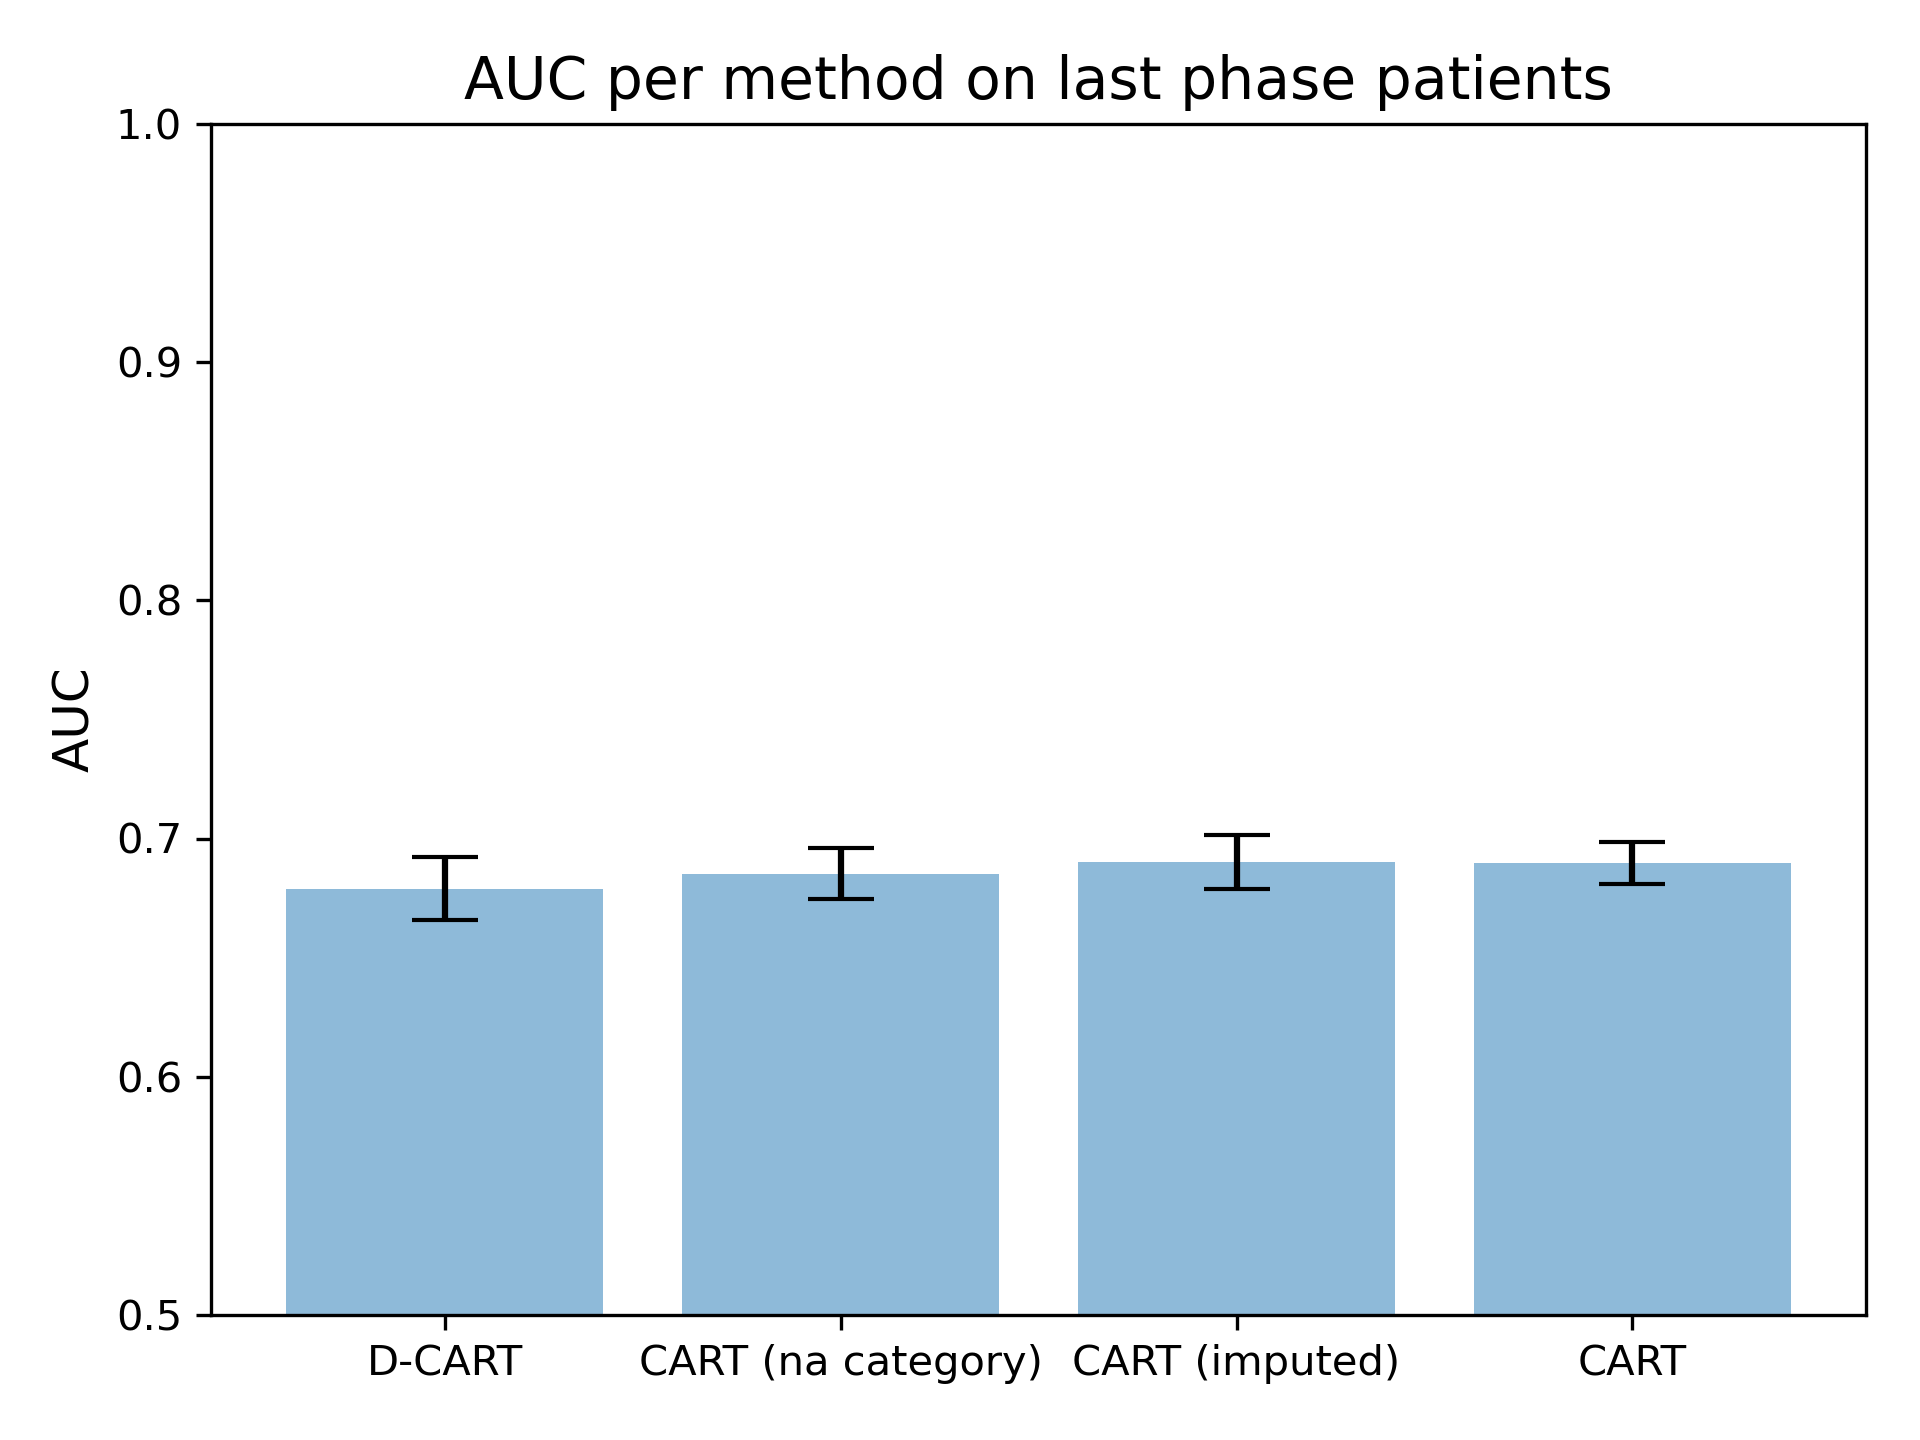
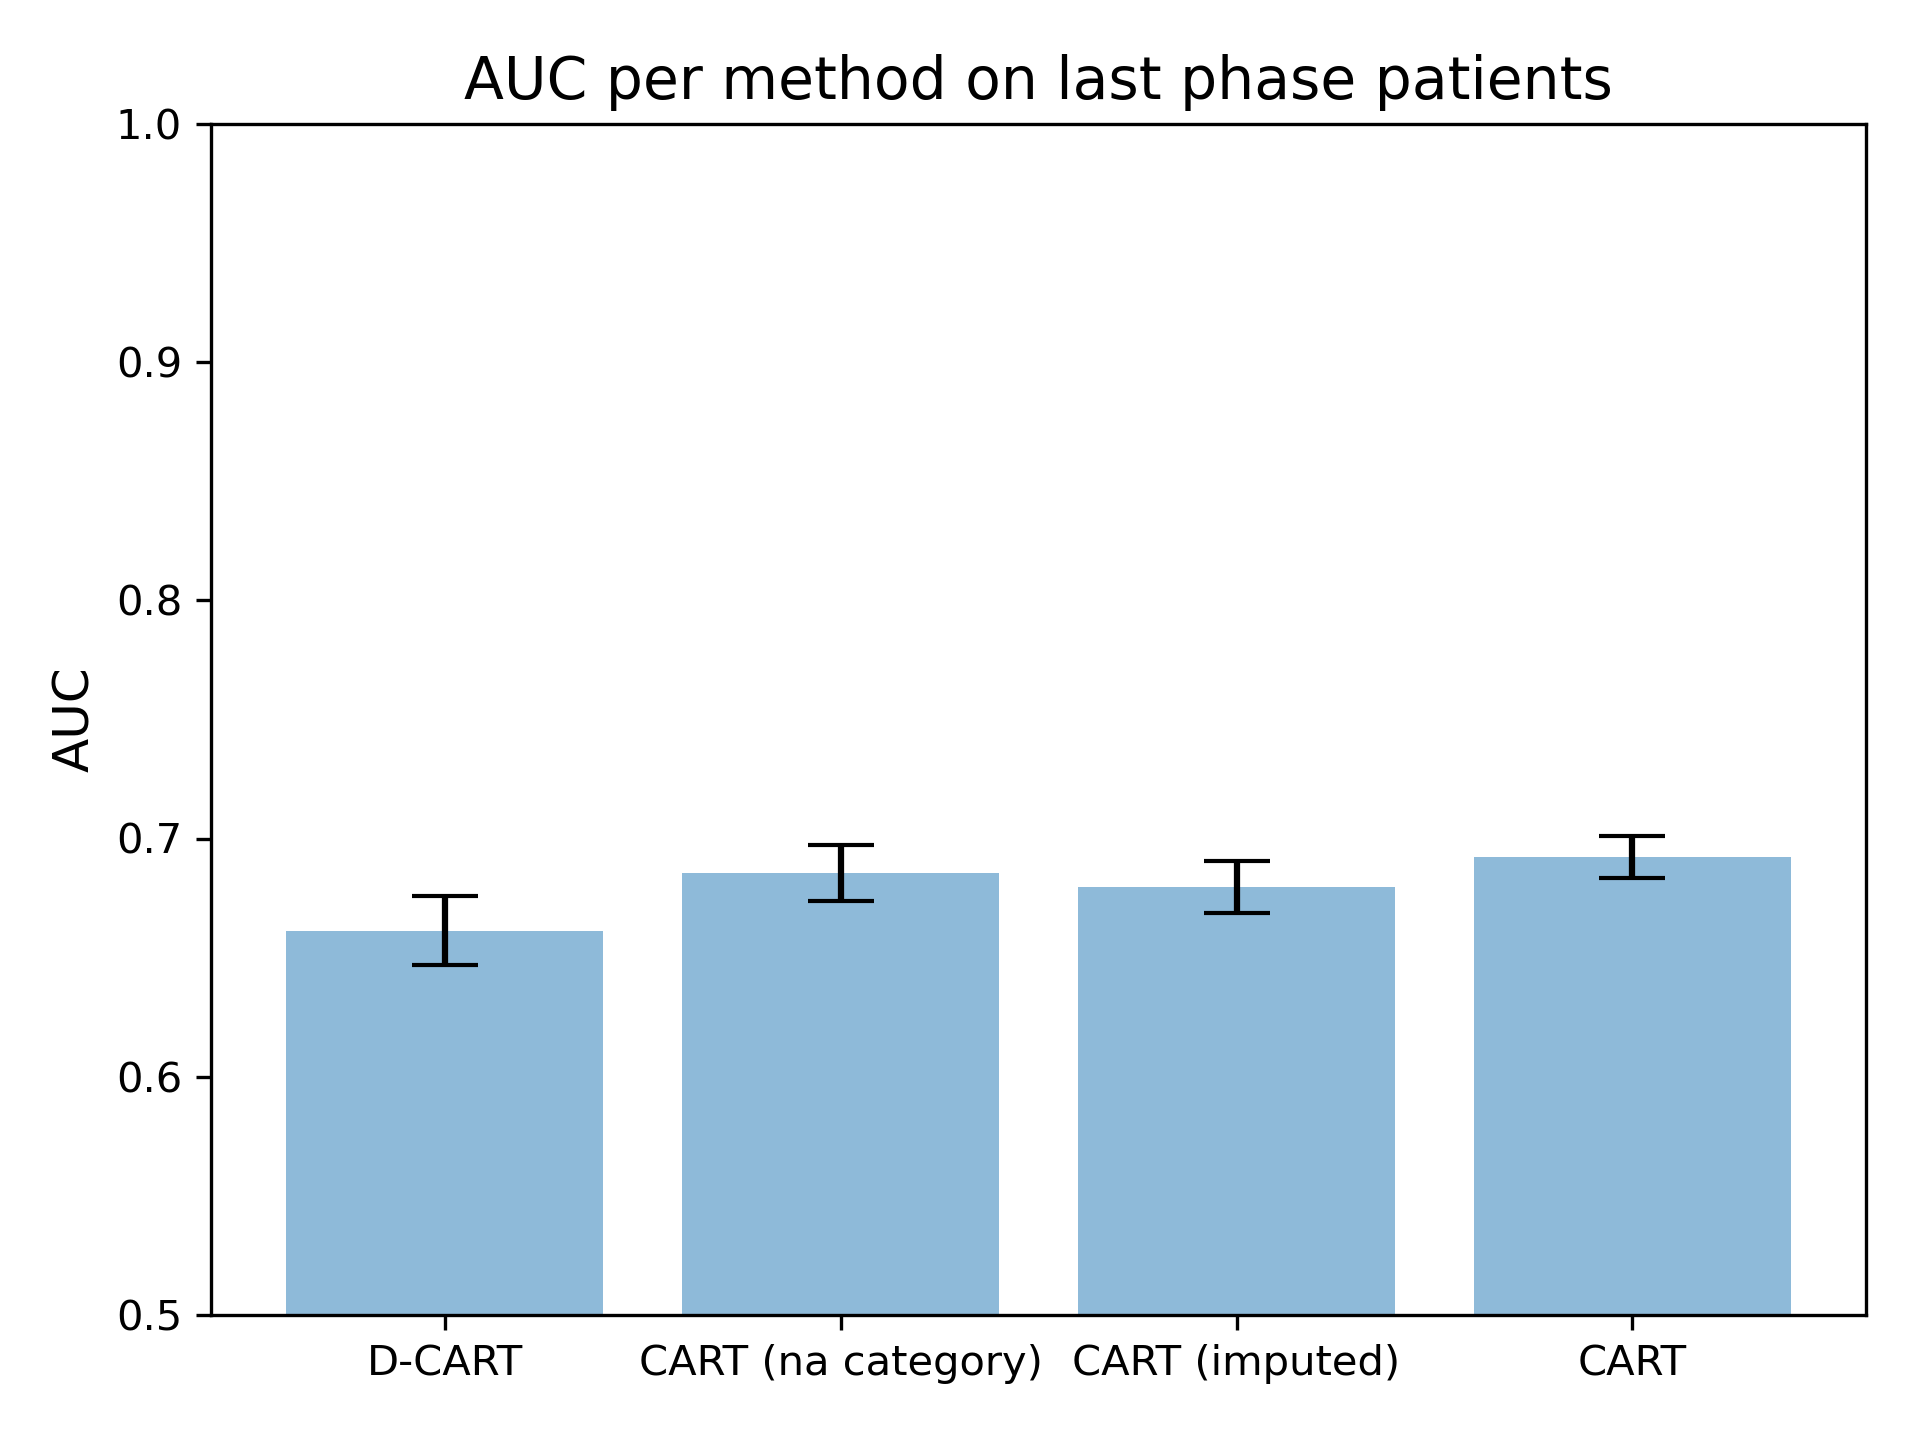
class weights

Changed region(s): [[0.125, 0.5938, 0.3125, 0.6875], [0.5625, 0.5625, 0.75, 0.6562], [0.7812, 0.5625, 0.9375, 0.625]]

diff --git a/rulevetting/projects/dynamic_cdi_utils.py b/rulevetting/projects/dynamic_cdi_utils.py
@@ -19,12 +19,13 @@ from sklearn.tree import DecisionTreeClassifier
 
 METHODS = [FIGSClassifier, RandomForestClassifier, GreedyRuleListClassifier, DecisionTreeClassifier,
            LogisticRegressionCV]
-mpl.rcParams['font.size'] = 12       # Default font size for text elements
+mpl.rcParams['font.size'] = 12  # Default font size for text elements
 mpl.rcParams['axes.titlesize'] = 14  # Default font size for titles
 mpl.rcParams['axes.labelsize'] = 12  # Default font size for axis labels
 mpl.rcParams['xtick.labelsize'] = 10  # Default font size for x-axis tick labels
 mpl.rcParams['ytick.labelsize'] = 10  # Default font size for y-axis tick labels
 mpl.rcParams['legend.fontsize'] = 10  # Default font size for legends
+
 
 def parse_args():
     # add dataset argument
@@ -268,11 +269,18 @@ def add_na_dummy(df):
     return df_cpy
 
 
-def run_sim(n_seeds, results_dir, max_rules=12, permute_phase=False, max_trees = None):
+def _get_sample_weight(y_train):
+    # return None
+    class_weights = {1: 1 - np.mean(y_train), 0: np.mean(y_train)}
+    # sample weight vector of size X_train.shape[0]
+    sample_weight = np.array([class_weights[y_train.iloc[i]] for i in range(y_train.shape[0])])
+    return sample_weight
+
+
+def run_sim(n_seeds, results_dir, max_rules=12, permute_phase=False, max_trees=None):
     X_imputed, y_imputed = get_dataset(impute=True, permute_phase=permute_phase)
     X, y = get_dataset(impute=False, permute_phase=permute_phase)
     method = "FIGS" if max_trees is None else "CART"
-
 
     # remove duplicates columns in X and X_imputed
     # X = X.loc[:, ~X.columns.duplicated()]
@@ -285,8 +293,8 @@ def run_sim(n_seeds, results_dir, max_rules=12, permute_phase=False, max_trees =
     log_phases(X, permute_phase)
     phases = get_phases(X.columns, permute_phases=permute_phase)
     performance = {"dfigs": [], "figs_na": [], "figs_imputed": [], "figs": []}
-    performance_per_phase = {"dfigs" : {i:[] for i in range(len(phases))},
-                             "figs": {i:[] for i in range(len(phases))}}
+    performance_per_phase = {"dfigs": {i: [] for i in range(len(phases))},
+                             "figs": {i: [] for i in range(len(phases))}}
     for seed in range(n_seeds):
         X_na = add_na_dummy(X)
 
@@ -301,15 +309,20 @@ def run_sim(n_seeds, results_dir, max_rules=12, permute_phase=False, max_trees =
         idx = X_test.dropna().index
 
         d_figs = D_FIGSClassifier(phases=copy.deepcopy(phases), max_rules=max_rules)
-        d_figs_auc = get_auc_score(d_figs, X_train, X_test, y_train, y_test, idx=idx)
+        d_figs_auc = get_auc_score(d_figs, X_train, X_test, y_train, y_test, idx=idx,
+                                   sample_weight=_get_sample_weight(y_train))
         figs_na = FIGSClassifier(max_rules=max_rules * len(phases), max_trees=max_trees)
         figs_imp = FIGSClassifier(max_rules=max_rules * len(phases), max_trees=max_trees)
-        figs = FIGSClassifier(max_rules=max_rules * len(phases),   max_trees=max_trees)
+        figs = FIGSClassifier(max_rules=max_rules * len(phases), max_trees=max_trees)
 
-        figs_na_auc = get_auc_score(figs_na, X_na_train, X_na_test, y_train, y_test, idx=idx)
-        figs_imp_auc = get_auc_score(figs_imp, X_train_imputed, X_test_imputed, y_train, y_test, idx=idx)
+        figs_na_auc = get_auc_score(figs_na, X_na_train, X_na_test, y_train, y_test, idx=idx,
+                                    sample_weight=_get_sample_weight(y_train))
+        figs_imp_auc = get_auc_score(figs_imp, X_train_imputed, X_test_imputed, y_train, y_test, idx=idx,
+                                     sample_weight=_get_sample_weight(y_train))
         X_train_no_na, y_train_no_na = X_train.dropna(), y_train[X_train.dropna().index]
-        figs_auc = get_auc_score(figs, X_train_no_na, X_test, y_train_no_na, y_test, idx=idx)
+
+        figs_auc = get_auc_score(figs, X_train_no_na, X_test, y_train_no_na, y_test, idx=idx,
+                                 sample_weight=_get_sample_weight(y_train_no_na))
         # add this to performance dict
         performance["dfigs"].append(d_figs_auc)
         performance["figs_na"].append(figs_na_auc)
@@ -324,20 +337,27 @@ def run_sim(n_seeds, results_dir, max_rules=12, permute_phase=False, max_trees =
             na_idx_train, na_idx_test = X_train_phase.dropna().index, X_test_phase.dropna().index
             X_train_phase, X_test_phase = X_train_phase.loc[na_idx_train, :], X_test_phase.loc[na_idx_test, :]
             y_train_phase, y_test_phase = y_train[na_idx_train], y_test[na_idx_test]
-            performance_per_phase["dfigs"][phase].append(get_auc_score(d_figs, X_train, X_test, y_train, y_test, idx=idx))
-            performance_per_phase["figs"][phase].append(get_auc_score(figs, X_train_phase, X_test_phase, y_train_phase, y_test_phase, idx=idx))
+            performance_per_phase["dfigs"][phase].append(
+                get_auc_score(d_figs, X_train, X_test, y_train, y_test, idx=idx,
+                              sample_weight=_get_sample_weight(y_train)))
+            performance_per_phase["figs"][phase].append(
+                get_auc_score(figs, X_train_phase, X_test_phase, y_train_phase, y_test_phase, idx=idx,
+                              sample_weight=_get_sample_weight(y_train_phase)))
 
     fig, axs = plt.subplots(1, len(phases), figsize=(15, 15))
     max_auc = -1 * np.inf
     min_auc = np.inf
     for i, phase in phases.items():
         # do two bar plots one next to the other for dfigs and figs_na
-        axs[i].bar([f"D-{method}", f"{method}"], [np.mean(performance_per_phase["dfigs"][i]), np.mean(performance_per_phase["figs"][i])],
-        yerr=[np.std(performance_per_phase["dfigs"][i]) / np.sqrt(n_seeds), np.std(performance_per_phase["figs"][i]) / np.sqrt(n_seeds)],
-                     color=["#1f77b4", "#ff7f0e"])
+        axs[i].bar([f"D-{method}", f"{method}"],
+                   [np.mean(performance_per_phase["dfigs"][i]), np.mean(performance_per_phase["figs"][i])],
+                   yerr=[np.std(performance_per_phase["dfigs"][i]) / np.sqrt(n_seeds),
+                         np.std(performance_per_phase["figs"][i]) / np.sqrt(n_seeds)],
+                   color=["#1f77b4", "#ff7f0e"])
         axs[i].set_title(f"phase {i}")
         # update max and min auc
-        max_std_phase = 3 * np.max([np.std(performance_per_phase["dfigs"][i]) / np.sqrt(n_seeds), np.std(performance_per_phase["figs"][i]) / np.sqrt(n_seeds)])
+        max_std_phase = 3 * np.max([np.std(performance_per_phase["dfigs"][i]) / np.sqrt(n_seeds),
+                                    np.std(performance_per_phase["figs"][i]) / np.sqrt(n_seeds)])
         max_auc_phase = np.max([np.mean(performance_per_phase["dfigs"][i]), np.mean(performance_per_phase["figs"][i])])
         min_auc_phase = np.min([np.mean(performance_per_phase["dfigs"][i]), np.mean(performance_per_phase["figs"][i])])
         max_auc = max(max_auc, max_auc_phase + max_std_phase)
@@ -546,8 +566,8 @@ def get_scores(cdi_strategy: str, phases_idx: dict, fitted_methods: dict, d_figs
     return {"auroc": aucs_phase, "auprc": aucprs_phase}
 
 
-def get_auc_score(cls, X_train, X_test, y_train, y_test, idx=None):
-    cls.fit(X_train.values, y_train)
+def get_auc_score(cls, X_train, X_test, y_train, y_test, sample_weight=None, idx=None):
+    cls.fit(X_train.values, y_train, sample_weight=sample_weight)
     if idx is not None:
         preds = cls.predict_proba(X_test.loc[idx, :].values)[:, 1]
         if len(np.unique(preds)) == 1:
@@ -561,7 +581,7 @@ def get_auc_score(cls, X_train, X_test, y_train, y_test, idx=None):
 
 def main():
     n_seeds = 20
-    results_dir = os.path.join("results", "dynamic_methods", DS)
+    results_dir = os.path.join("results", "dynamic_methods_class_weight", DS)
     run_sim(n_seeds, results_dir, permute_phase=False)
     run_sim(n_seeds, results_dir, permute_phase=False, max_trees=1)
 
